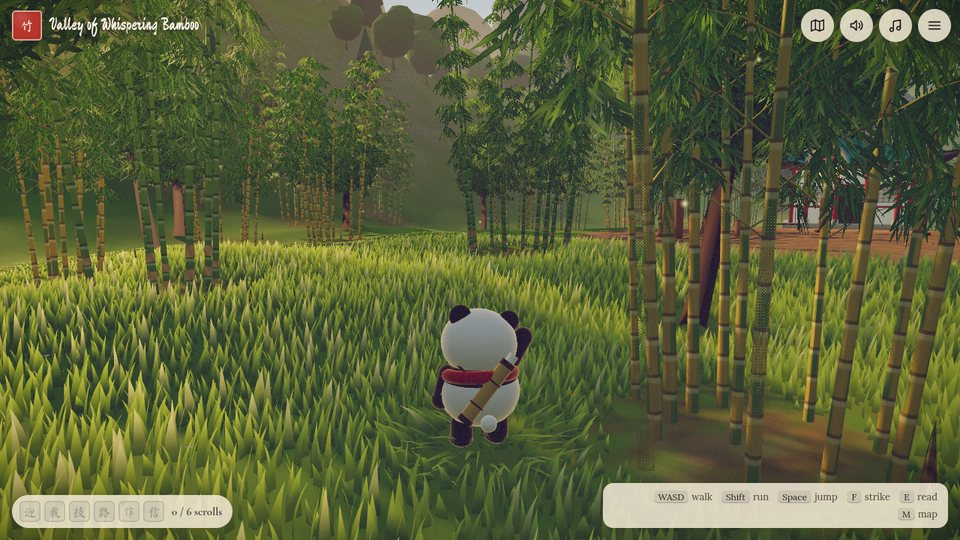
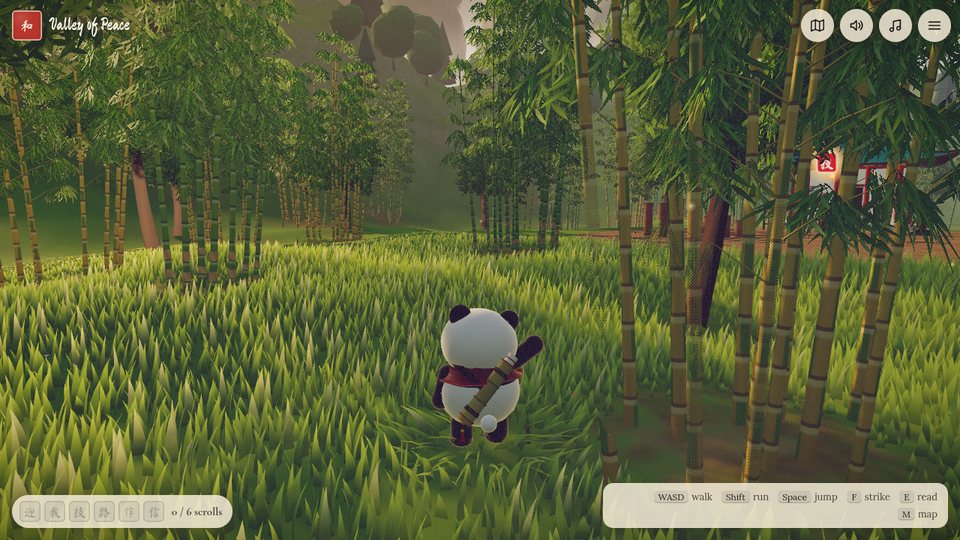
docs: retake the README pictures and the link preview
The pictures still showed the old name, mountains, willows, bell and
scroll. They are retaken from the current build: the bridge from a new
angle that shows the panda (it was hidden behind the Journey seal) past a
weeping willow, and the link preview, also the README's opening picture,
tilted up a little so the misty peaks rise behind the valley. The
screenshot and preview scripts carry the new framings.

diff --git a/README.md b/README.md
@@ -1,6 +1,6 @@
 # Valley of Peace 和
 
-![A painted valley with a pagoda on a hill, a lake with a zig-zag bridge, a waterfall and a village](public/og-image.jpg)
+![A painted valley with a pagoda on a hill, a lake with a zig-zag bridge, a waterfall and a village, below karst peaks rising out of the mist](public/og-image.jpg)
 
 An explorable 3D portfolio. Guide a panda through a misty valley ringed by karst peaks
 that rise out of the clouds: bamboo groves, blossom trees, weeping willows, a koi lake fed
@@ -14,10 +14,10 @@ stamped, and the scroll rises out of the panda and unrolls.
 Built with **three.js**, **TypeScript** and hand-written **GLSL**. Every model, texture,
 sound and note of music is generated in code; there are no downloaded assets besides fonts.
 
-| ![The panda crossing the zig-zag bridge over the koi lake](docs/images/bridge.jpg)     | ![The panda below the pagoda, next to a project banner](docs/images/pagoda-top.jpg) |
-| -------------------------------------------------------------------------------------- | ----------------------------------------------------------------------------------- |
-| ![The waterfall pouring into its plunge pool by the bell tower](docs/images/falls.jpg) | ![Golden and green bamboo by the training grounds](docs/images/grove.jpg)           |
-| ![The About scroll unrolled over the lake](docs/images/scroll.jpg)                     | ![The ink-wash map with quick travel](docs/images/map.jpg)                          |
+| ![The panda crossing the zig-zag bridge over the koi lake, past a weeping willow](docs/images/bridge.jpg) | ![The panda below the pagoda, next to a project banner](docs/images/pagoda-top.jpg) |
+| --------------------------------------------------------------------------------------------------------- | ----------------------------------------------------------------------------------- |
+| ![The waterfall pouring into its plunge pool by the bell tower](docs/images/falls.jpg)                    | ![Golden and green bamboo by the training grounds](docs/images/grove.jpg)           |
+| ![The About scroll unrolled over the lake](docs/images/scroll.jpg)                                        | ![The ink-wash map with quick travel](docs/images/map.jpg)                          |
 
 ## Play
 
